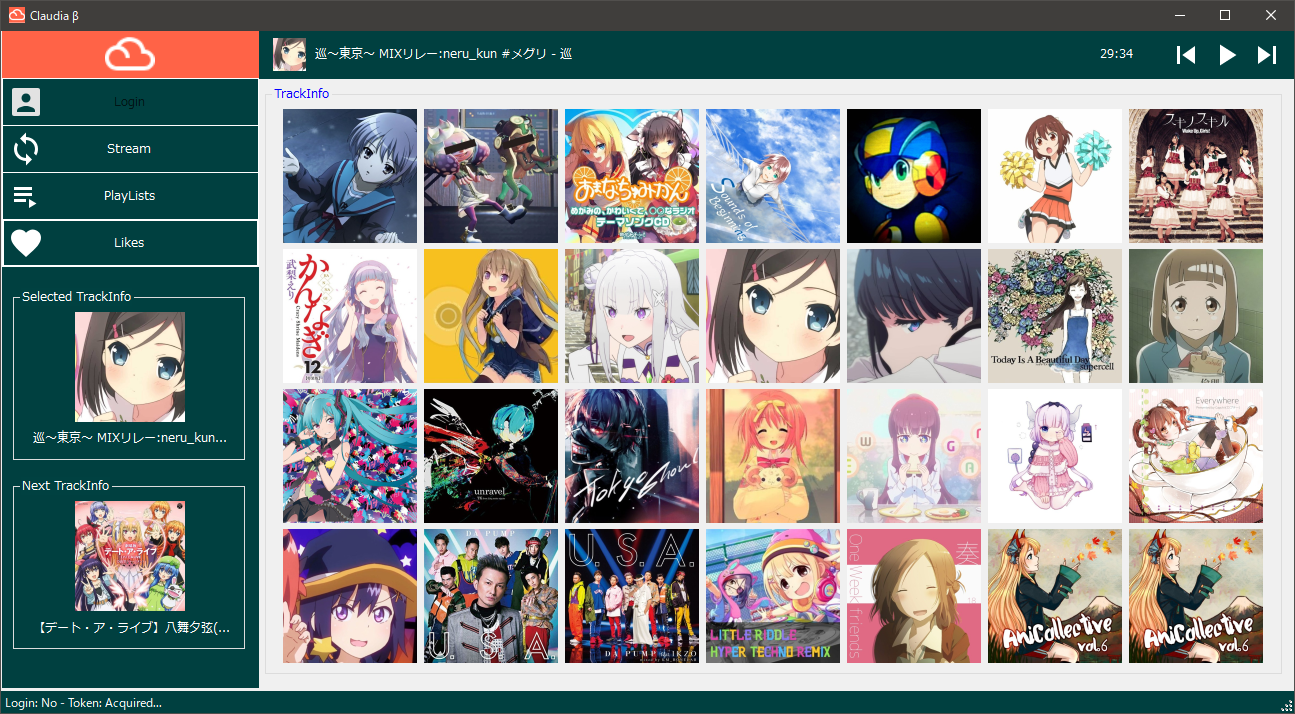
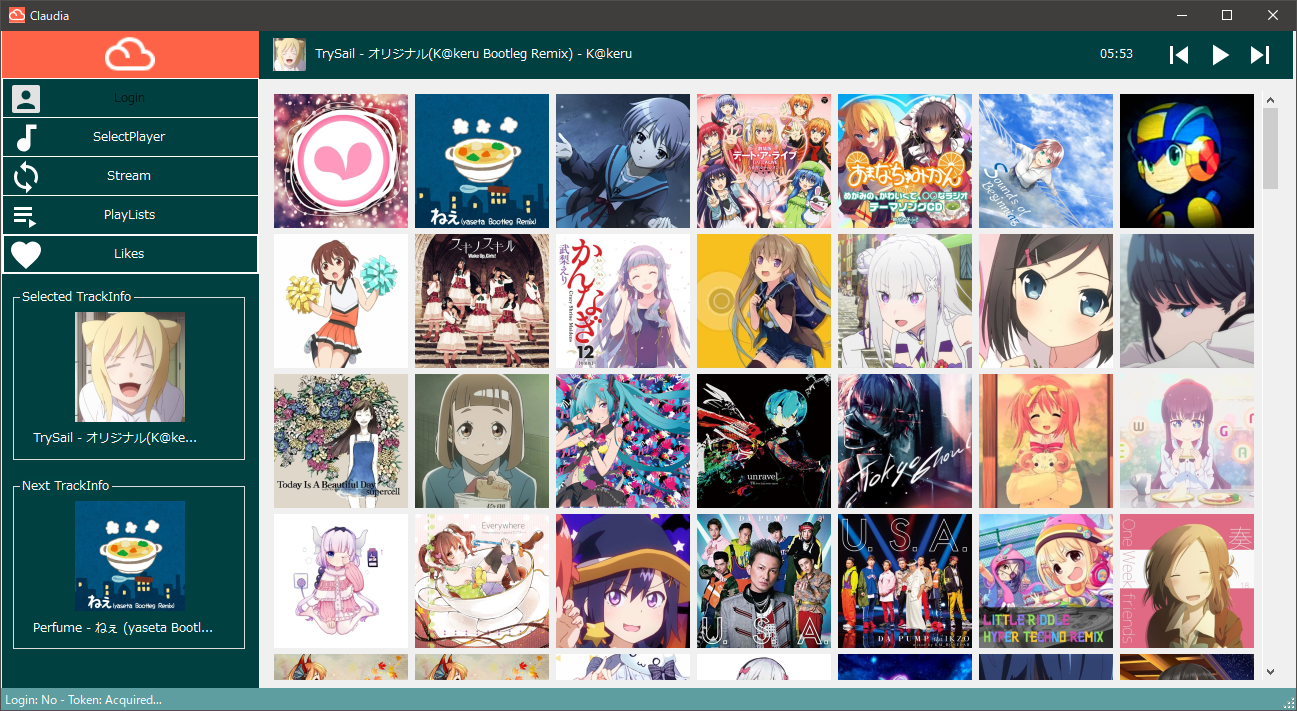
[wip] update sample image...

diff --git a/README.md b/README.md
@@ -2,7 +2,14 @@
 # Claudia
 Claudia is SoundCloud Wrapper Application. (for me.)
 
+- Main Form
 ![sample-wip](sample-wip.png)
+
+- Mini Form (Now Playing)
+![sample-wip2](sample-wip2.png)
+
+- Select Player Form
+![sample-wip3](sample-wip3.png)
 
 ## License for Claudia
 MIT License
@@ -13,7 +20,6 @@ MIT License
 
 - IDE  
   - Visual Studio 2017 Community (C# 7.2, .NET Framework 4.7.2)
-  - Visual Studio Code 1.28
   - SmartGit
   
 ### Claudia で利用しているライブラリとそのライセンス
